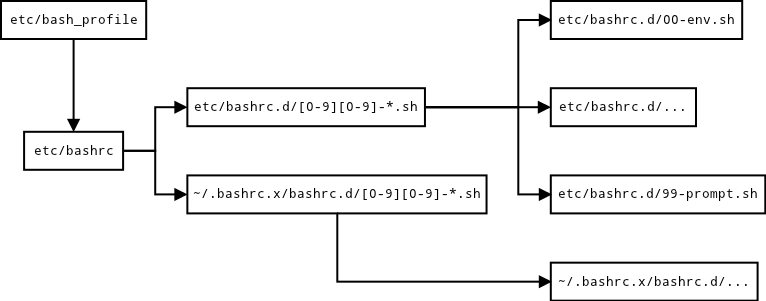
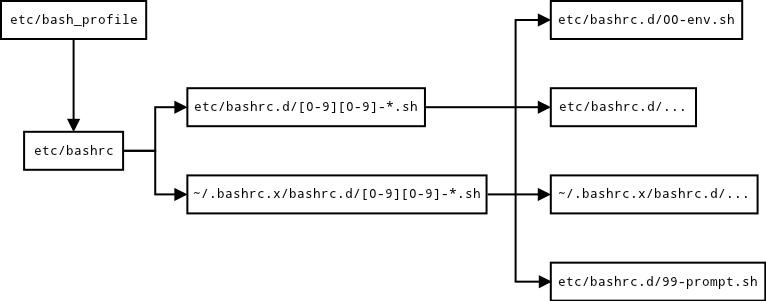
Added support to customized extensions and PROMPTing plugins.

Changed region(s): [[0.4204, 0.0299, 1.0, 0.9568], [0.7206, 0.8671, 1.0, 1.0]]

diff --git a/doc/README.en.md b/doc/README.en.md
@@ -36,6 +36,40 @@ cd -
 'rm' -fr ~/.bash_profile ~/.bashrc ~/.local/bashrc.x ~/.local/bashrc.x.git
 ```
 
+Architecture Details
+--------------------
+
+### Execution Workflow ###
+
+![Execution Workflow](https://raw.github.com/snakevil/bashrc.x/master/doc/workflow.png)
+
+As the image shown, scripting files matched `[0-9][0-9]-*.sh` in the folder
+`etc/bashrc.d` of `Bashrc.X` should be merged with the familar scripting files
+in the folder `~/.bashrc.x/bashrc.d`, sorted by filenames, and then execute.
+
+Notice that the default scripting files inside `Bashrc.x` have the higher
+priority.
+
+### PROMPTing Fields ###
+
+Dynamic PROMPTing contents would be generated and merged by
+[etc/bashrc.d/99-prompt.sh](/snakevil/bashrc.x/blob/master/src/etc/bashrc.d/99-prompt.sh).
+
+![PROMPTing Sample](https://raw.github.com/snakevil/bashrc.x/master/doc/prompting-sample.png)
+
+* `Wed Nov 08` - **Date**
+* <`root` - **Effective user in `SUDO` mode**
+* (`snakevil`) - **Login user**
+* @`.94.32` - **Last 2 parts of `IP`**
+* :`/h*/s*/Doc*/P*/ba*/s*/e*/bashrc.d` - **`CWD`_(compressed)_ **
+* /`g` - **Repository type at `CWD`**
+* `master`> - **Repository branch at `CWD`**
+* `10:26` - **Time**
+* j`1` - **Jobs in background**
+* l`1.15` - **Load**
+* c`0s54` - **Time consumed by last command**
+* e`148` - **Exit code of last command**
+
 Customization
 -------------
 
@@ -62,33 +96,48 @@ Colors defeind by `Bashrc.X`:
 * `$__BASHRC_X_PROMPTC_TC` - **Time consumed color by last command**, defaults as `$Cwhite`
 * `$__BASHRC_X_PROMPTC_EXIT` - **Exit code color of last command**, defaults as `$Chred`
 
+### Extensions ###
 
-Architecture Details
---------------------
+What you need is to create scripting files named alike `[0-9][0-9]-*.sh` in the
+folder `~/.bashrc.x/bashrc.d`. And then, the scripts should be executed
+everytime you open the terminal.
 
-### Execution Workflow ###
+### PROMPting Plugins ###
 
-![Execution Workflow](https://raw.github.com/snakevil/bashrc.x/master/doc/workflow.png)
+PROMPTing plugins are a special kind of extensions in `Bashrc.X`. For most
+perfect experience, we should know the following 2 instructions:
 
-### PROMPTing Fields ###
+#### 1. Where could plugins display? ####
 
-Dynamic PROMPTing contents would be generated and merged by
-[etc/bashrc.d/99-prompt.sh](/snakevil/bashrc.x/blob/master/src/etc/bashrc.d/99-prompt.sh).
+![Plugins Positions](https://raw.github.com/snakevil/bashrc.x/master/doc/plugins-positions.png)
 
-![PROMPTing Sample](https://raw.github.com/snakevil/bashrc.x/master/doc/prompting-sample.png)
+#### 2. How plugins declared? ####
 
-* `Wed Nov 08` - **Date**
-* <`root` - **Effective user in `SUDO` mode**
-* (`snakevil`) - **Login user**
-* @`.94.32` - **Last 2 parts of `IP`**
-* :`/h*/s*/Doc*/P*/ba*/s*/e*/bashrc.d` - **`CWD`_(compressed)_ **
-* /`g` - **Repository type at `CWD`**
-* `master`> - **Repository branch at `CWD`**
-* `10:26` - **Time**
-* j`1` - **Jobs in background**
-* l`1.15` - **Load**
-* c`0s54` - **Time consumed by last command**
-* e`148` - **Exit code of last command**
+1. Filename
+
+    For most compatibility, we strongly recommend the filename should match the
+    rule `9[0-8]-prompt-*.sh`.
+
+2. Function
+
+    Function name should be named alike `__BASHRC_X_PROMPT_*`. Give it a more
+    unique name, for all declared plugins could work fine.
+
+3. Return value
+
+    For functions in [BASH][] could not return values directly, we chosen the
+    special array variable `_p` to act as the return parameter.
+
+    ```shell
+    _p=(
+      1  # Controls the display position. '1' or '2' available, for the position
+         # after CWD, or before the prompting symbol.
+      "" # Controls the content including colors.
+    )
+    ```
+
+For more information, please read the sample:
+[etc/bashrc.d/90-prompt-jobs.sh](/snakevil/bashrc.x/blob/master/src/etc/bashrc.d/90-prompt-jobs.sh).
 
 ###### Copyright © 2012 [Snakevil Zen][me]. ALL RIGHTS RESERVED. ######
 

diff --git a/doc/README.zh.md b/doc/README.zh.md
@@ -34,6 +34,36 @@ cd -
 'rm' -fr ~/.bash_profile ~/.bashrc ~/.local/bashrc.x ~/.local/bashrc.x.git
 ```
 
+功能简介
+--------
+
+### 执行流程 ###
+
+![执行流程](https://raw.github.com/snakevil/bashrc.x/master/doc/workflow.png)
+
+如图所示，`Bashrc.X`默认的`etc/bashrc.d`目录下的`[0-9][0-9]-*.sh`脚本，和
+`~/.bashrc.x/bashrc.d`目录下的同规则文件，会按照先文件名、后目录（`Bashrc.X`默认
+脚本优先）的方式排序，并依此执行。
+
+### 提示字段 ###
+
+动态提示内容的修正，由 [etc/bashrc.d/99-prompt.sh](/snakevil/bashrc.x/blob/master/src/etc/bashrc.d/99-prompt.sh) 完成。
+
+![提示案例](https://raw.github.com/snakevil/bashrc.x/master/doc/prompting-sample.png)
+
+* `Wed Nov 08` - **日期**
+* <`root` - **`SUDO` 模式扮演用户**
+* (`snakevil`) - **登录用户**
+* @`.94.32` - **`IP` 后两段**
+* :`/h*/s*/Doc*/P*/ba*/s*/e*/bashrc.d` - **当前目录路径 _（压缩版）_ **
+* /`g` - **当前目录版本库类型**
+* `master`> - **当前目录版本库分支名**
+* `10:26` - **时间**
+* j`1` - **后台保持任务数**
+* l`1.15` - **系统负载**
+* c`0s54` - **上条指令执行时间**
+* e`148` - **上条指令退出码**
+
 个性定制
 --------
 
@@ -57,31 +87,47 @@ cd -
 * `$__BASHRC_X_PROMPTC_TC` - **上条指令执行时间字段色**，默认为`$Cwhite`
 * `$__BASHRC_X_PROMPTC_EXIT` - **上条指令退出码字段色**，默认为`$Chred`
 
-功能简介
---------
+### 功能扩展 ###
 
-### 执行流程 ###
+在`~/.bashrc.x/bashrc.d`目录下创建文件名称符合`[0-9][0-9]-*.sh`规则的脚本。从下
+次开始启动命令行，其中的脚本内容就会作为定制的功能扩展执行了。
 
-![执行流程](https://raw.github.com/snakevil/bashrc.x/master/doc/workflow.png)
+### 提示插件 ###
 
-### 提示字段 ###
+在`Bashrc.X`中，提示插件也以功能扩展脚本的形式实现。但为了使定制的提示插件能够完
+美工作，还需要注意以下两点：
 
-动态提示内容的修正，由 [etc/bashrc.d/99-prompt.sh](/snakevil/bashrc.x/blob/master/src/etc/bashrc.d/99-prompt.sh) 完成。
+#### 1. 插件内容显示位置 ####
 
-![提示案例](https://raw.github.com/snakevil/bashrc.x/master/doc/prompting-sample.png)
+![插件位置](https://raw.github.com/snakevil/bashrc.x/master/doc/plugins-positions.png)
 
-* `Wed Nov 08` - **日期**
-* <`root` - **`SUDO` 模式扮演用户**
-* (`snakevil`) - **登录用户**
-* @`.94.32` - **`IP` 后两段**
-* :`/h*/s*/Doc*/P*/ba*/s*/e*/bashrc.d` - **当前目录路径 _（压缩版）_ **
-* /`g` - **当前目录版本库类型**
-* `master`> - **当前目录版本库分支名**
-* `10:26` - **时间**
-* j`1` - **后台保持任务数**
-* l`1.15` - **系统负载**
-* c`0s54` - **上条指令执行时间**
-* e`148` - **上条指令退出码**
+#### 2. 插件定义函数规范 ####
+
+1. 文件名
+
+    为了兼容性，我们建议插件的文件名应该符合`9[0-8]-prompt-*.sh`规则。
+
+2. 函数名
+
+    函数名应该符合`__BASHRC_X_PROMPT_*`规则。请尽量使用更有语义的名字，以免造成
+    既有插件工作不正常，或该插件自身工作不正常。
+
+3. 函数输出
+
+    鉴于 [BASH][] 的函数定义无法直接返回需要的结果，我们使用特殊数组变量`_p`作为
+    返回结果变量。
+
+    ```shell
+    _p=(
+      1  # 控制内容显示位置。可选值为“1”或“2”，分别对应当前工作目录后的位置，和
+         # 提示符前的位置。
+      "" # 控制内容，包括颜色定义。
+    )
+    ```
+
+如有需要，请阅读范例：
+[etc/bashrc.d/90-prompt-jobs.sh](/snakevil/bashrc.x/blob/master/src/etc/bashrc.d/90-prompt-jobs.sh)
+。
 
 ###### Copyright © 2012 [Snakevil Zen][me]. ALL RIGHTS RESERVED. ######
 
